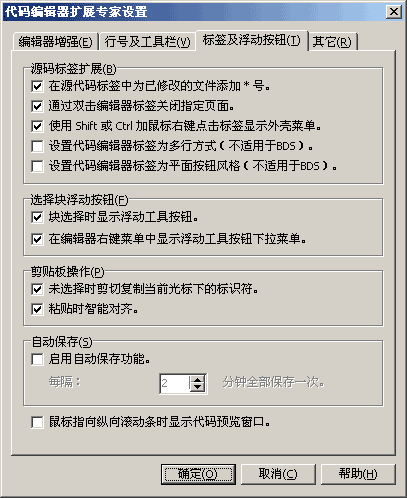
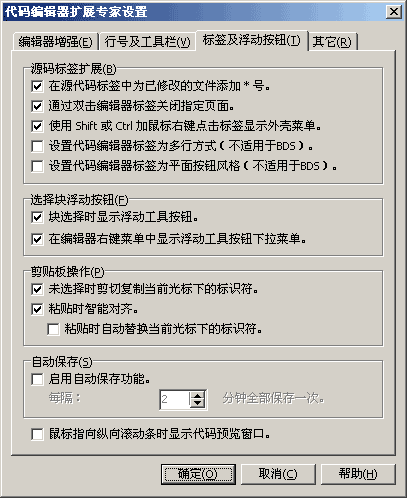
* [Editor Enhancement] Update Help.

Changed region(s): [[0.059, 0.6325, 0.9435, 0.9036]]

diff --git a/Help/CnWizards_ENU/srcedtenh/srcedtothers.htm b/Help/CnWizards_ENU/srcedtenh/srcedtothers.htm
@@ -31,6 +31,7 @@
   </li>
   <li>
     <p class="text"><b>Smart Paste</b>: Whether auto align the pasting contents when pressing Ctrl+V and NO selection in editor.</p>
+    <p class="text"><b>Replace Token under Cursor when Pasting</b>: If enabled, when the selection is empty, pressing Ctrl+V will replace current token under the cursor.</p>
   </li>
 </ul>
 <p class="text">&nbsp;</p>
